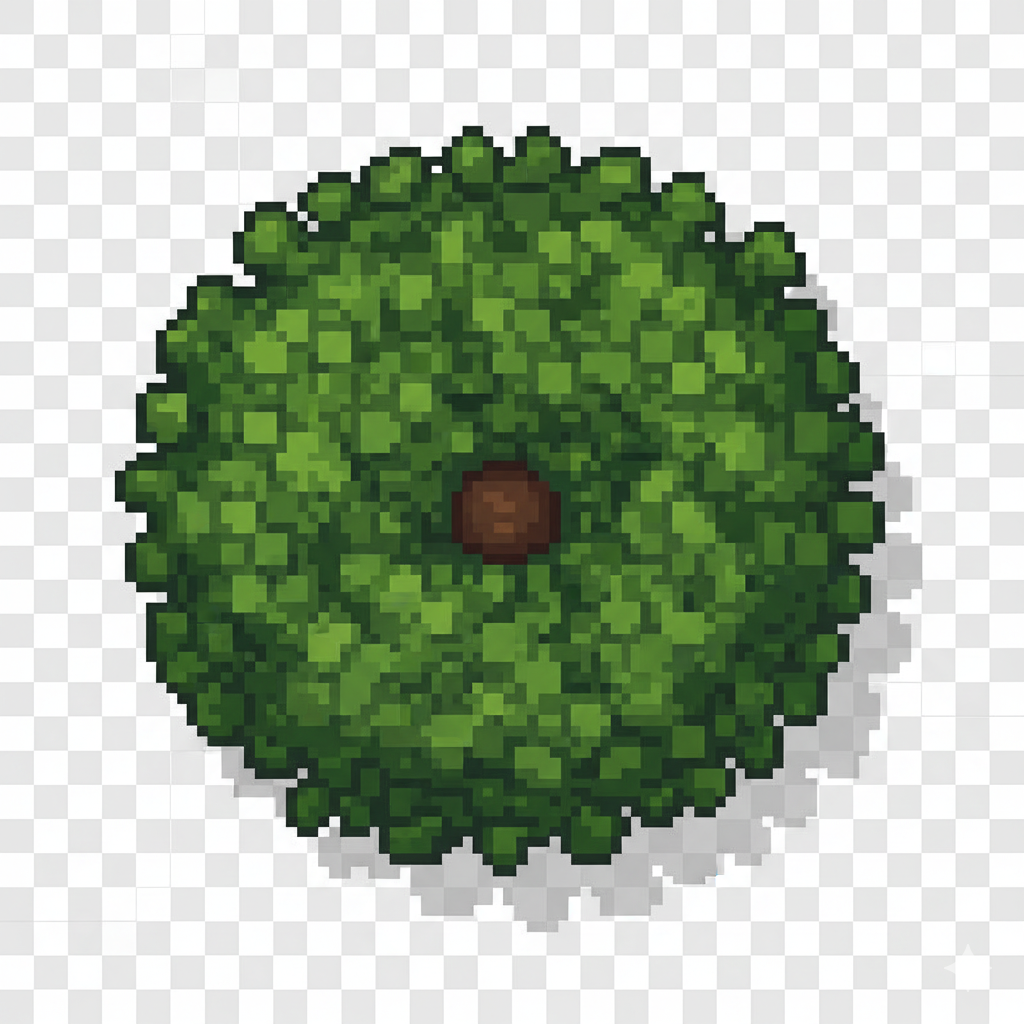
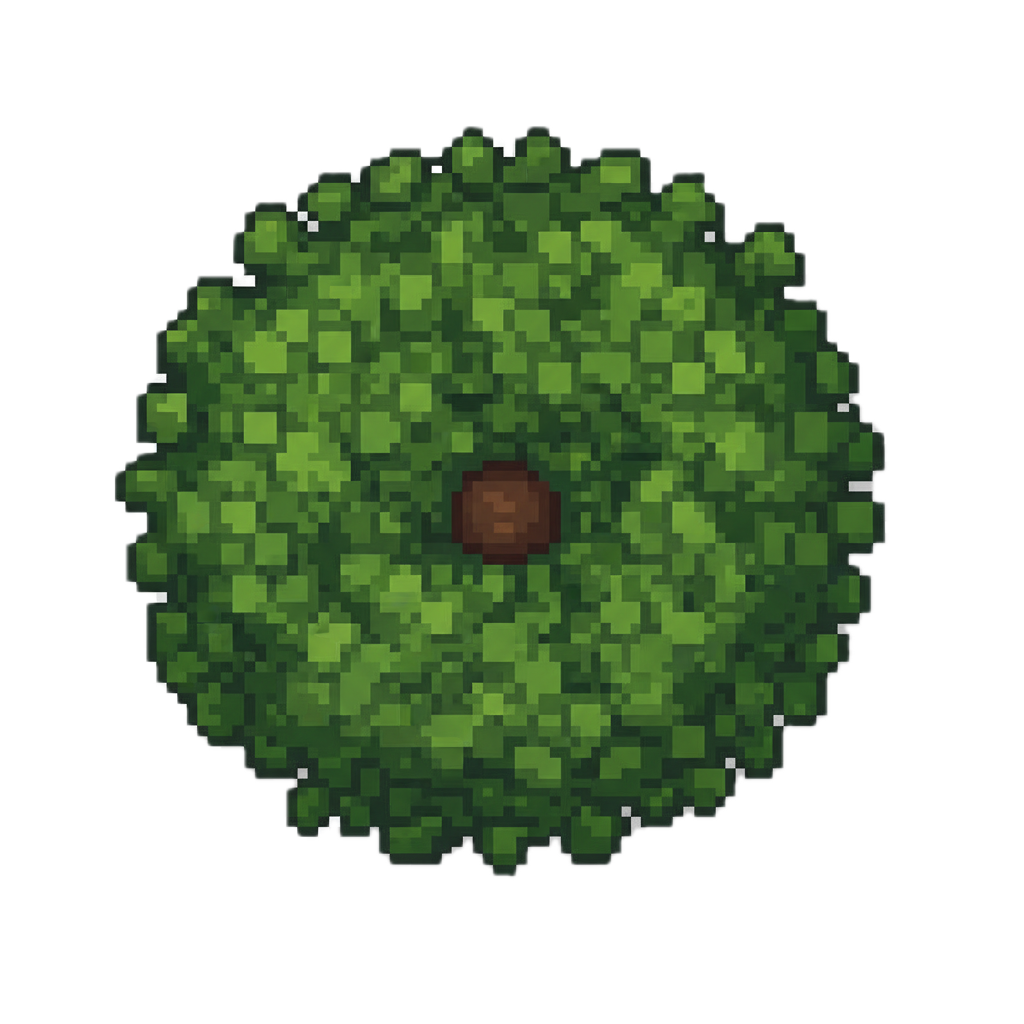
implemented cropping of transparent borders for large images in TextureAtlas, added scaling logic, and updated tree asset

diff --git a/FactoryForge/Engine/Rendering/TextureAtlas.swift b/FactoryForge/Engine/Rendering/TextureAtlas.swift
@@ -255,6 +255,46 @@ final class TextureAtlas {
                 processedImage = image
             }
         } else if imageWidth > targetSize || imageHeight > targetSize {
+            // For large images (1024x1024), crop out transparent borders by extracting from center
+            // Crop pixels from each side to remove transparent borders
+            // Use a percentage-based crop for better results across different image sizes
+            let cropPercentage: Float = 0.15  // Crop 15% from each side (30% total removed)
+            let borderCropX = Int(Float(imageWidth) * cropPercentage)
+            let borderCropY = Int(Float(imageHeight) * cropPercentage)
+            let cropX = borderCropX
+            let cropY = borderCropY
+            let cropWidth = imageWidth - (borderCropX * 2)
+            let cropHeight = imageHeight - (borderCropY * 2)
+            
+            // Extract center region (excluding borders)
+            if let croppedCGImage = cgImage.cropping(to: CGRect(x: cropX, y: cropY, width: cropWidth, height: cropHeight)) {
+                let croppedImage = UIImage(cgImage: croppedCGImage, scale: image.scale, orientation: image.imageOrientation)
+                
+                // Scale the cropped image to target size
+                let scale = min(Float(targetSize) / Float(cropWidth), Float(targetSize) / Float(cropHeight))
+                let scaledWidth = Int(Float(cropWidth) * scale)
+                let scaledHeight = Int(Float(cropHeight) * scale)
+                
+                print("  Cropped borders and scaling from \(cropWidth)x\(cropHeight) to \(scaledWidth)x\(scaledHeight)")
+                
+                UIGraphicsBeginImageContextWithOptions(CGSize(width: scaledWidth, height: scaledHeight), false, 1.0)
+                croppedImage.draw(in: CGRect(x: 0, y: 0, width: scaledWidth, height: scaledHeight))
+                processedImage = UIGraphicsGetImageFromCurrentImageContext() ?? image
+                UIGraphicsEndImageContext()
+            } else {
+                // Fallback to normal scaling if cropping fails
+                let scale = min(Float(targetSize) / Float(imageWidth), Float(targetSize) / Float(imageHeight))
+                let scaledWidth = Int(Float(imageWidth) * scale)
+                let scaledHeight = Int(Float(imageHeight) * scale)
+                
+                print("  Scaling image from \(imageWidth)x\(imageHeight) to \(scaledWidth)x\(scaledHeight)")
+                
+                UIGraphicsBeginImageContextWithOptions(CGSize(width: scaledWidth, height: scaledHeight), false, 1.0)
+                image.draw(in: CGRect(x: 0, y: 0, width: scaledWidth, height: scaledHeight))
+                processedImage = UIGraphicsGetImageFromCurrentImageContext() ?? image
+                UIGraphicsEndImageContext()
+            }
+        } else if imageWidth < targetSize || imageHeight < targetSize {
             // Scale down the image to fit if it's larger
             let scale = min(Float(targetSize) / Float(imageWidth), Float(targetSize) / Float(imageHeight))
             let scaledWidth = Int(Float(imageWidth) * scale)
